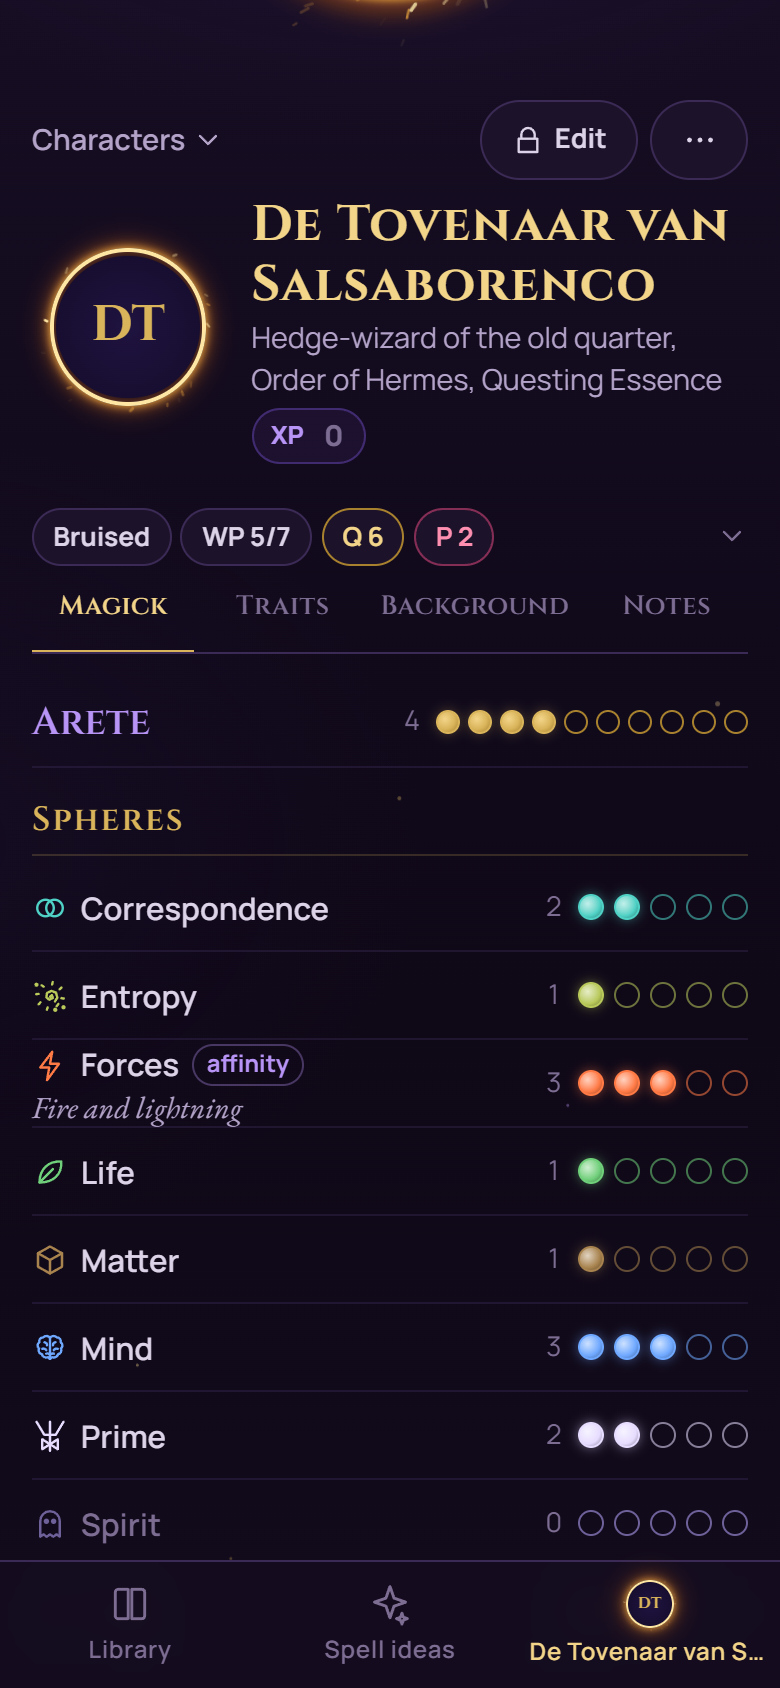
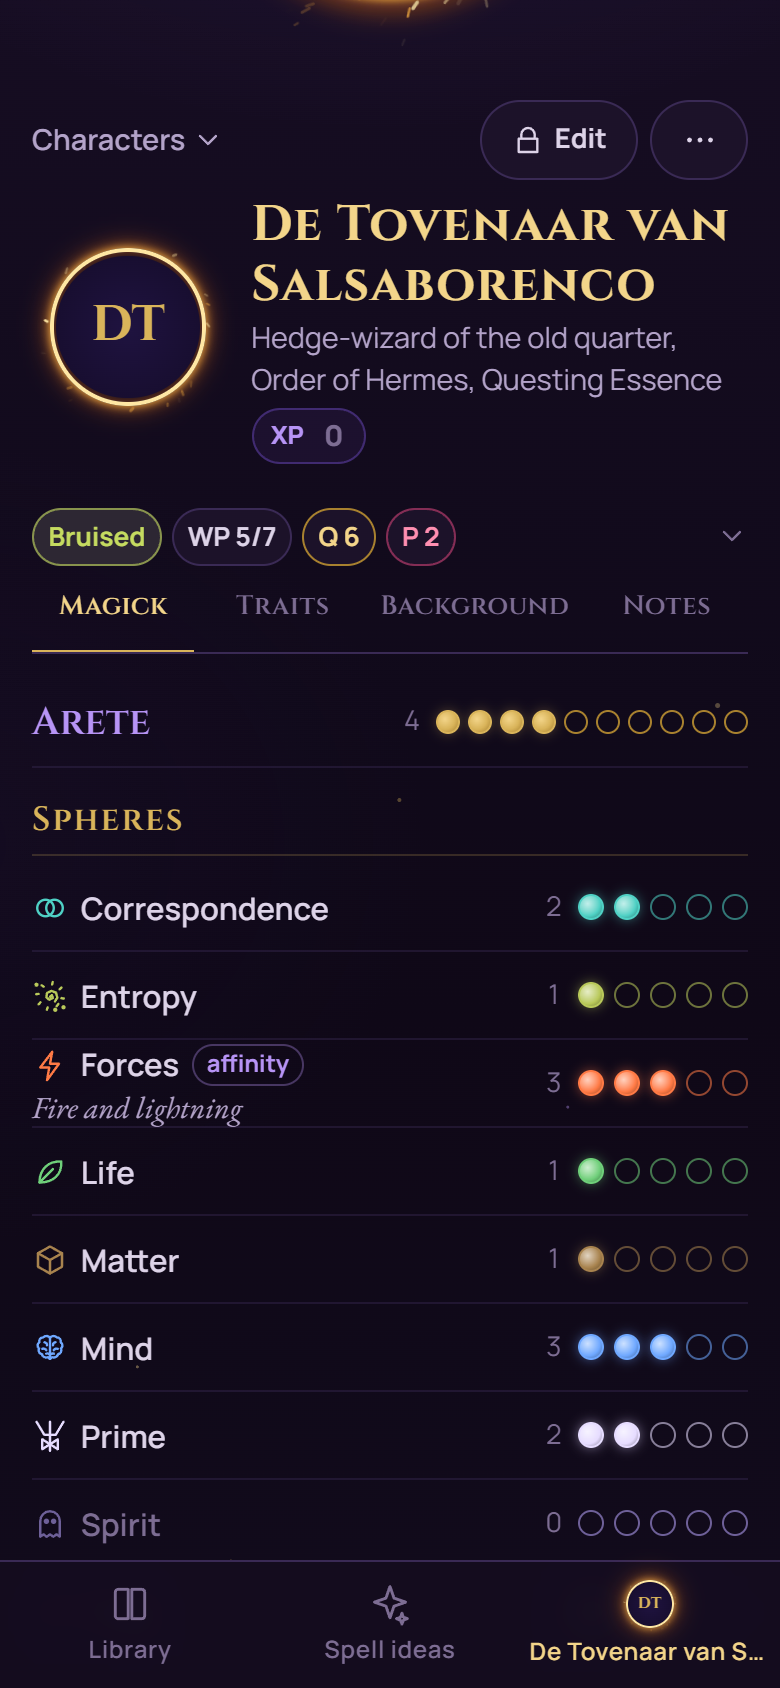
Docs and screenshots: copy character, health colours, the PDF export fixes
⚡

Changed region(s): [[0.0308, 0.3081, 0.6154, 0.3389]]

diff --git a/CLAUDE.md b/CLAUDE.md
@@ -47,7 +47,7 @@ No unit tests or linters; verify scripts (playwright-core driving system Edge vi
 
 - **Storage:** everything the player owns lives in IndexedDB via Dexie (`src/db/db.ts`): `characters`, `spells`, `books` (page text of the player's own rulebook PDFs, never shipped or shared). `requestPersistence()` asks for persistent storage on the first real write. Use `useLiveQuery` (dexie-react-hooks) in components.
 - **Routing:** hash routes in `useHashRoute.ts`: `#/library`, `#/spells`, `#/spells/<id>`, `#/characters`, `#/characters/<id>/<tab>` (tabs magick, traits, background, notes). `activeCharacter.ts` remembers the character in play (localStorage, opening a sheet sets it); `useActiveCharacter()` gives all characters plus the active one (falling back to the most recent) and re-renders on a switch. `#/characters` without an id is not a list: it redirects to the character in play, or is the welcome page (add/import) when there are none.
-- **Characters:** `character.ts` is the full M20 model (all Attributes/Abilities in `traits`, Spheres, the Q/P wheel, health marks, backgrounds, merits/flaws, rotes, focus, wonders, description, gear, weapons, notes). `clampWheel` enforces M20 p. 331: Paradox cancels Quintessence where they meet, Quintessence stops at the Paradox. `CharacterSheet.tsx` keeps a local copy and debounces writes; `App.tsx` keys it by id, so switching characters starts fresh (play mode, no dialog left open; a delete confirmation once stayed open for the next character). Its header shows a 128px portrait (tap = enlarged view; in edit mode tap = replace) with name, concept line (concept, sect or else affiliation, essence; the character menu and import previews sum a character up the same way), the XP field and the status pills beside it (below 600px: a 96px portrait, and the pills drop to their own full-width row via `display: contents` on `.sheet-title`, because beside the portrait they wrapped). Experience is a plain number: the XP field takes digits only and stays editable in play mode, and the Mr. Gone import keeps only the number ("4 exp" becomes "4"); when that header scrolls out of view (IntersectionObserver) a fixed mini bar with a small portrait and the same pills takes over, so health and Willpower stay in reach. The mini bar has its own drop-down (`miniOpen`) instead of reusing the in-flow trackers panel: moving that panel between the two places changed the page height, which flipped the observer back and forth and blocked scrolling. `html` has `scroll-padding-top` so nothing scrolls in under that bar; "show Abilities at 0" is remembered per device (`agathon:show-untrained`); play mode only lets the trackers change (health, Willpower spent, Q/P), the lock button switches to edit mode.
+- **Characters:** `character.ts` is the full M20 model (all Attributes/Abilities in `traits`, Spheres, the Q/P wheel, health marks, backgrounds, merits/flaws, rotes, focus, wonders, description, gear, weapons, notes). `clampWheel` enforces M20 p. 331: Paradox cancels Quintessence where they meet, Quintessence stops at the Paradox. `CharacterSheet.tsx` keeps a local copy and debounces writes; `App.tsx` keys it by id, so switching characters starts fresh (play mode, no dialog left open; a delete confirmation once stayed open for the next character). Its header shows a 128px portrait (tap = enlarged view; in edit mode tap = replace) with name, concept line (concept, sect or else affiliation, essence; the character menu and import previews sum a character up the same way), the XP field and the status pills beside it (below 600px: a 96px portrait, and the pills drop to their own full-width row via `display: contents` on `.sheet-title`, because beside the portrait they wrapped). Experience is a plain number: the XP field takes digits only and stays editable in play mode, and the Mr. Gone import keeps only the number ("4 exp" becomes "4"); when that header scrolls out of view (IntersectionObserver) a fixed mini bar with a small portrait and the same pills takes over, so health and Willpower stay in reach. The mini bar has its own drop-down (`miniOpen`) instead of reusing the in-flow trackers panel: moving that panel between the two places changed the page height, which flipped the observer back and forth and blocked scrolling. `html` has `scroll-padding-top` so nothing scrolls in under that bar; "show Abilities at 0" is remembered per device (`agathon:show-untrained`); play mode only lets the trackers change (health, Willpower spent, Q/P), the lock button switches to edit mode. "Copy character" in the sheet's menu (`copyCharacter` in db.ts) copies the character with its stored PDF and spell ideas under a free name ("X (copy)", "X (copy 2)"; a copy of a copy counts on from the original name) and opens it.
 - **Sheet import/export:** `src/sheets/mrgone.ts` reads and writes Mr. Gone's fillable M20 2-page sheet with pdf-lib (lazy-loaded). Its dot checkboxes have meaningless names, so `mrgone-m20-2page.json` (generated by `scripts/build-mrgone-map.mjs` from field positions next to the printed labels; all 625 fields mapped, none twice) says which field is which trait. A lone `x` after a Sphere marks the affinity Sphere. The imported PDF is kept per character in the `sheetFiles` table so "Export PDF sheet" fills that same file. Characters made in the app use one blank sheet per device (`sheetFiles` row `__blank__`): the first export asks for it, with a download link to Mr. Gone's M20 2-page interactive sheet (`MRGONE_BLANK_URL`). We don't ship it (publisher logo and Mr. Gone's work, no terms for hosting it elsewhere) and his server sends no CORS header, so the app can't fetch it either. On export, check boxes keep the sheet's own appearances: Mr. Gone's boxes only have an "on" look (/Yes) and pdf-lib treats the missing "off" look as a fault and redraws every box as a square with a check mark, so `writeMrGone` saves with `updateFieldAppearances: false` and only redraws text fields and drop-downs itself, in Times Bold (the sheet's Goudy Old Style can't be reused) with auto size capped at 12pt like Acrobat, keeping each field's DA. verify-sheet checks the boxes' looks; to eyeball an export, `node scripts/render-pdf-page.mjs <pdf> <png> [page]` renders it with pdfjs-dist in Edge. Mr. Gone's blank sheet is Reader extended (`/Perms /UR3`, an Adobe signature over the exact bytes): any rewrite breaks it and Acrobat Reader then switches the form off, so `writeMrGone` drops `/Perms`. The sheet has no portrait box; when the PDF holds no portrait (`findPdfPortrait`), export draws the app's one as JPEG (`portraitJpeg`) at `PORTRAIT_BOX` on page 2, over the right side of Description, where players put theirs. When the PDF has one and the app portrait differs from what import makes of it (`imageToPortrait` of the PDF picture, compared as data URLs; `sheetPortrait` in sheetActions), export swaps the pixels of that same image object, cropped to its shape, so it keeps its place and size. A portrait removed in the app leaves the PDF's picture alone. Re-importing shows `diffSheet` changes first and keeps id, notes and spells (`sheetActions.ts`). Matching on import is by character name.
 - **Library UI:** `src/library/data.ts` lazy-loads `library/effects.json` as its own chunk (precached). `src/library/search.ts` parses the query: text, quoted phrases and `-exclusions`, Sphere operators (`mind:3` = up to 3, `=3`, `3+`, `2-4`; any 3+ letter prefix; `data:`/`primal:`/`dimsci:`), `uses:` (these Spheres plus others), `tag:`, `book:`, `kind:`, `is:` (also `is:fav` for favorites), `name:`. A Sphere query matches a combo with exactly those Spheres unless `uses:` or "Allow other Spheres" is on. With "What <character> can cast" on, hits are split by `deficit` (dots missing over the closest combo): castable now, and a separate "One dot away" section. The Sphere bar, tag rows and book chips just rewrite the query text (`toggleOp`), so the query stays the single source of truth. Cards (`EffectCard`) show only the first (best matching) combo plus "+N more", so they all have the same shape; the edge strip takes the colour of that combo's highest Sphere, and hovering lets portal sparks rise off the card (no lift, no sweep). Search words (free text, phrases, `name:`) are marked with `<mark>` (`Highlighted.tsx`, after another app): in the name, in the summary (cut around the first hit by `snippet` so it shows within the 3-line clamp), and, when the words only occur further down (system, combo note, add-on purpose, coincidental note), in an extra `.effect-match` line that shows why the card matched. The detail marks them too and lights up the tags the search filters on. Layout: three grid areas (search, side, results); on phones they stack and the book/tag filters hide behind a Filters button, from 900px the side becomes a sticky another app-style sidebar (Spheres as a 3x3 grid with names, tags as rows with counts) next to a multi-column card grid. `EffectDetail.tsx` shows the combos (pick one), the base difficulty from M20 p. 501 (highest Sphere +3 / +4 / +5), the book's coincidental note and a mitigation checklist; Sphere tricks in it only light up when the active character has the dots. Routes: `#/library/<effect id>`; closing goes back only when the detail was opened from the list, so deep links never leave the app.
 - **Spell dossiers** (the "Spell ideas" tab; the route is still `#/spells`, and the library calls its entries spells, never effects): `spells.ts` is the model (`Spell`: title, goal, linked effect ids, `versions` oldest first with the last one being the plan, `log` of castings) stored in the `spells` table (rows from before only had a title; `normalizeSpell` fills them in on read). `SpellsView.tsx` is the list of the active character's ideas and the dossier, which saves debounced like the sheet and is always editable (a working document, no lock). A version's Spheres use the library's Sphere bar (tap raises, past 5 back to 0); base difficulty comes from `difficulties()` in `library/search.ts`, shared with the effect detail. "Try another way" copies the plan into a new version; versions are numbered by creation time, so "Make this the plan" (moving one to the end) keeps the names. The effect detail's "Start a spell idea from this" (`spellActions.ts`) takes the effect name, link and selected combo. The Magick tab lists the character's ideas; deleting a character deletes them. Dossiers are not part of shares yet.

diff --git a/README.md b/README.md
@@ -61,10 +61,14 @@ table; Agathon is the helper and sounding board.
 - **Play mode and edit mode**: while playing only health, Willpower and the
   **Quintessence/Paradox wheel** change (Paradox cancels Quintessence, never the
   other way round, as in M20), plus the experience beside the name; a lock switches
-  to editing.
+  to editing. The health status runs from green (unhurt) through yellow and orange to
+  red as the wound penalties climb.
 - **PDF import and export**: drop in Mr. Gone's fillable M20 2-page sheet and every
   field comes across, including the portrait pasted into it. Re-importing shows the
-  changes first and keeps your notes. "Export PDF sheet" fills your own PDF back in.
+  changes first and keeps your notes. "Export PDF sheet" fills your own PDF back in,
+  portrait included (a new one from the app replaces the old picture), and the result
+  stays fillable in Acrobat Reader. Characters made in the app use Mr. Gone's free
+  blank sheet: the first export links to it, and after that it is kept on the device.
 - **Pick lists**: Concept, Essence, Nature, Demeanor, Affiliation, Sect, Backgrounds,
   Merits and Flaws come from searchable lists of what M20 defines, with a short hint,
   the cost and the page; your own names work too. Specialties suggest M20's examples
@@ -74,6 +78,8 @@ table; Agathon is the helper and sounding board.
 - **Favorite spells** (what M20 sheets call rotes): tap the star on a spell in the
   library and it waits on the sheet's Magick tab, opening right there; spells of your
   own sit in the same list. They go in and out of the PDF sheet's rotes fields.
+- **Copy character** (in the sheet's menu): a full copy with its PDF and spell ideas,
+  to try out a build without touching the original.
 - **One character in play**: the nav carries the active character, one tap opens
   the sheet. The character switcher (the caret beside it on a wide screen, or
   "Characters" on the sheet) lists the others and adds or imports new ones.
@@ -135,7 +141,7 @@ Checks and screenshots (headless system Edge via playwright-core; start
 
 ```sh
 node scripts/verify.mjs           # shell, navigation, IndexedDB, character switcher, pick lists, Android pickers, 320px edit mode, offline
-node scripts/verify-sheet.mjs     # PDF import via the UI, portrait, trackers, edit mode, XP, favorites, export round trip
+node scripts/verify-sheet.mjs     # PDF import via the UI, portrait, trackers, edit mode, XP, favorites, export round trip, copies, the blank sheet
 node scripts/verify-share.mjs     # link, QR and file, a second device, name clashes, damaged links
 node scripts/verify-library.mjs   # Sphere search, operators, tags, detail, castable, favorites, a layout that stays put
 node scripts/verify-spells.mjs    # spell ideas: from a spell or by name, versions, links, the log, Copy for AI, pasting answers
@@ -159,7 +165,7 @@ default `refs/`), which is not in the repository.
 - **Character sheets**: the importer reads Mr. Gone's interactive M20 2-page sheet,
   the only fillable M20 sheet around (the official ones are not fillable);
   its field map is generated from the field positions (`scripts/build-mrgone-map.mjs`).
-  The sheet itself is not included.
+  The sheet itself is not included; the app links to Mr. Gone's free download.
 
 Unofficial fan tool. Mage: The Ascension is (c) Paradox Interactive AB; the rules
 and setting belong to their authors. Use your own copies of the books.

diff --git a/BRAINSTORM.md b/BRAINSTORM.md
@@ -159,7 +159,11 @@ another app-achtige zijbalk voor de bibliotheek op desktop, een character-switch
 zoekwoorden die oplichten, keuzelijsten uit M20 (Backgrounds, Merits, Flaws, Concept,
 Essence, Nature, Demeanor, Affiliation, Sect, specialties), XP naast de naam, een
 Notes-schrijfblok, en Android-proof bestandskiezers. Het tabblad Spells heet nu Spell
-ideas (issue #22).
+ideas (issue #22). Later op 18 okt: *Copy character* in het menu van de sheet, een
+health-pil die van groen via geel naar rood loopt, een mini-balk die ook op een Z Flip
+op een regel past, en de PDF-export opgepoetst: de lege sheet van Mr. Gone via een
+downloadlink (een keer per apparaat), exports blijven invulbaar in Acrobat Reader, en
+het portret uit de app gaat mee de PDF in.
 
 ## Bouwvolgorde (voorstel)
 
